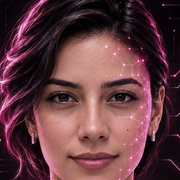
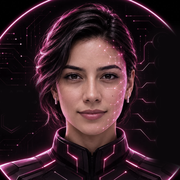
Clara 2.0: encabezado fijo, PQR sin scroll, fondo animado y Clara interactiva
- Menú y subpestañas fijos al desplazarse.
- PQR y EA caben en una pantalla: casillas que se ajustan a la altura
  de la ventana y encabezado más compacto.
- Fondo con cuadrícula tenue y líneas tipo circuito con pulsos de luz
  (se desactiva con "reducir movimiento").
- Clara como asistente en la barra de pasos: mensajes según el estado,
  anillo que gira más rápido mientras analiza y mirada que sigue el mouse.
- Avatar y favicon con encuadre más abierto (cabeza y hombros).

diff --git a/resources/css/app.css b/resources/css/app.css
@@ -73,11 +73,12 @@ body.kairo-theme {
 
 /* ============================ Encabezado ============================ */
 
-.c-header { background: var(--c-surface); border-bottom: 1px solid var(--c-border); position: sticky; top: 0; z-index: 40; }
+.c-topwrap { position: sticky; top: 0; z-index: 40; box-shadow: 0 1px 0 var(--c-border), 0 6px 18px -14px rgba(16,24,40,.25); }
+.c-header { background: rgb(var(--c-surface-rgb) / .92); backdrop-filter: blur(10px); border-bottom: 1px solid var(--c-border); }
 .c-header-row { height: 62px; display: flex; align-items: center; gap: 1.5rem; }
 
 .c-brand { display: flex; align-items: center; gap: .65rem; flex-shrink: 0; }
-.c-brand img { width: 34px; height: 34px; border-radius: 50%; object-fit: cover; }
+
 .c-brand-name { font-weight: 700; font-size: .95rem; color: var(--c-text); line-height: 1.1; }
 .c-brand-sub { font-size: .7rem; color: var(--c-text-dim); font-weight: 500; }
 .c-brand-dot { display: inline-block; width: 6px; height: 6px; border-radius: 50%; background: var(--c-brand); margin-left: 5px; vertical-align: middle; transform: translateY(-1px); }
@@ -88,7 +89,7 @@ body.kairo-theme {
 .c-mainnav a:hover { color: var(--c-text); background: var(--c-surface-2); }
 .c-mainnav a.is-active { background: var(--c-surface-3); color: var(--c-text); }
 
-.c-subbar { background: var(--c-surface); border-bottom: 1px solid var(--c-border); }
+.c-subbar { background: rgb(var(--c-surface-rgb) / .92); backdrop-filter: blur(10px); }
 .c-subnav { display: flex; gap: 1.4rem; height: 44px; align-items: stretch; overflow-x: auto; }
 .c-subnav a { display: flex; align-items: center; font-size: .82rem; font-weight: 600; color: var(--c-text-dim); border-bottom: 2px solid transparent; white-space: nowrap; }
 .c-subnav a:hover { color: var(--c-text); }
@@ -215,3 +216,76 @@ select.kairo-textarea option { background: var(--c-surface); color: var(--c-text
 .kairo-dropdown-panel { background: var(--c-surface) !important; border: 1px solid var(--c-border) !important; color: var(--c-text) !important; }
 
 .prose-invert { --tw-prose-invert-body: var(--c-text-soft); --tw-prose-invert-headings: var(--c-text); --tw-prose-invert-links: var(--c-accent-soft); --tw-prose-invert-bold: var(--c-text); }
+
+
+/* ===================== Fondo de líneas animado ===================== */
+
+.kairo-shell { position: relative; z-index: 1; }
+
+.c-bg { position: fixed; inset: 0; z-index: 0; pointer-events: none; overflow: hidden; }
+.c-bg::before {
+    content: ""; position: absolute; inset: -48px;
+    background-image:
+        linear-gradient(rgb(var(--c-accent-rgb) / .045) 1px, transparent 1px),
+        linear-gradient(90deg, rgb(var(--c-accent-rgb) / .045) 1px, transparent 1px);
+    background-size: 48px 48px;
+    -webkit-mask-image: radial-gradient(ellipse 80% 70% at 70% 0%, #000 30%, transparent 75%);
+            mask-image: radial-gradient(ellipse 80% 70% at 70% 0%, #000 30%, transparent 75%);
+    animation: c-grid 40s linear infinite;
+}
+.c-bg svg { position: absolute; inset: 0; width: 100%; height: 100%; }
+.c-bg .ln { fill: none; stroke-width: 1.2; stroke-linecap: round; }
+.c-bg .ln-a { stroke: rgb(var(--c-accent-rgb) / .10); }
+.c-bg .ln-b { stroke: rgb(201 91 127 / .16); }
+.c-bg .pulse.ln-a { stroke: rgb(var(--c-accent-rgb) / .32); }
+.c-bg .pulse.ln-b { stroke: rgb(201 91 127 / .45); }
+.c-bg .pulse { stroke-dasharray: 90 1400; animation: c-flow 14s linear infinite; }
+.c-bg .pulse.d2 { animation-duration: 19s; animation-delay: -6s; }
+.c-bg .pulse.d3 { animation-duration: 23s; animation-delay: -11s; }
+.c-bg .drift { animation: c-drift 26s ease-in-out infinite alternate; transform-origin: center; }
+
+@keyframes c-grid { to { transform: translate(48px, 48px); } }
+@keyframes c-flow { from { stroke-dashoffset: 1490; } to { stroke-dashoffset: 0; } }
+@keyframes c-drift { from { transform: translateY(0); } to { transform: translateY(-18px); } }
+
+/* ===================== Clara animada ===================== */
+
+.c-clara { position: relative; display: inline-block; border-radius: 50%; flex-shrink: 0; transition: transform .25s ease; }
+.c-clara img { display: block; width: 100%; height: 100%; border-radius: 50%; object-fit: cover; position: relative; z-index: 1; }
+.c-clara::before {
+    content: ""; position: absolute; inset: -3px; border-radius: 50%; z-index: 0;
+    background: conic-gradient(from 0deg, var(--c-brand), rgb(var(--c-accent-rgb) / .9), transparent 55%, var(--c-brand));
+    animation: c-spin 6s linear infinite; opacity: .75;
+}
+.c-clara::after { content: ""; position: absolute; inset: -1px; border-radius: 50%; background: var(--c-surface); z-index: 0; }
+.c-clara-sm { width: 36px; height: 36px; animation: c-float 5s ease-in-out infinite; }
+.c-brand:hover .c-clara-sm { transform: scale(1.08) rotate(-4deg); }
+.c-clara-md { width: 46px; height: 46px; }
+.c-clara.is-thinking::before { animation-duration: 1.1s; opacity: 1; inset: -4px; }
+.c-clara.is-thinking { animation: c-breathe 1.6s ease-in-out infinite; }
+.c-clara.is-done::before { background: conic-gradient(var(--c-green), #8fd3b0, var(--c-green)); }
+
+@keyframes c-spin { to { transform: rotate(360deg); } }
+@keyframes c-float { 0%,100% { transform: translateY(0); } 50% { transform: translateY(-2px); } }
+@keyframes c-breathe { 0%,100% { transform: scale(1); } 50% { transform: scale(1.06); } }
+
+/* Asistente en la barra de pasos */
+.c-assist { margin-left: auto; display: flex; align-items: center; gap: .7rem; max-width: 420px; }
+.c-bubble { position: relative; background: var(--c-surface-3); color: var(--c-text-soft); font-size: .8rem; font-weight: 600; padding: .5rem .8rem; border-radius: 12px 12px 4px 12px; line-height: 1.35; }
+.c-bubble span { display: inline-block; animation: c-pop .35s ease; }
+@keyframes c-pop { from { opacity: 0; transform: translateY(4px); } to { opacity: 1; transform: none; } }
+.c-dots i { display: inline-block; width: 4px; height: 4px; border-radius: 50%; background: currentColor; margin-left: 2px; animation: c-dot 1s infinite; }
+.c-dots i:nth-child(2) { animation-delay: .15s; } .c-dots i:nth-child(3) { animation-delay: .3s; }
+@keyframes c-dot { 0%,80%,100% { opacity: .2; } 40% { opacity: 1; } }
+@media (max-width: 767.98px) { .c-assist { margin-left: 0; width: 100%; } }
+
+/* PQR / EA: todo visible sin desplazarse */
+.c-fit-ta { height: clamp(140px, calc(100vh - 495px), 420px) !important; resize: none; }
+.c-fieldhead { min-height: 32px; display: flex; align-items: center; justify-content: space-between; margin-bottom: .5rem; }
+.c-steps { padding-block: .75rem; }
+.c-split > * { padding-block: 1rem; }
+.c-cardfoot { padding-block: .7rem; }
+
+@media (prefers-reduced-motion: reduce) {
+    .c-bg::before, .c-bg .pulse, .c-bg .drift, .c-clara, .c-clara::before, .c-clara-sm { animation: none !important; }
+}

diff --git a/resources/views/livewire/ea/analyzer.blade.php b/resources/views/livewire/ea/analyzer.blade.php
@@ -8,13 +8,13 @@
     $paso = $secciones ? 3 : 1;
 @endphp
 
-<div>
+<div x-data="{ escrito: false }">
     {{-- Encabezado --}}
-    <div class="flex flex-wrap items-end justify-between gap-4 mb-6">
+    <div class="flex flex-wrap items-end justify-between gap-4 mb-4">
         <div>
             <div class="c-eyebrow">Seguridad del paciente</div>
-            <h1 class="c-title mt-1">Análisis de eventos adversos</h1>
-            <p class="text-sm mt-1.5 max-w-xl" style="color:var(--c-text-dim)">Casos clínicos con enfoque en seguridad del paciente, eventos adversos e incidentes. Clara genera un análisis institucional listo para informe interno.</p>
+            <h1 class="c-title mt-0.5">Análisis de eventos adversos</h1>
+            <p class="text-sm mt-1 max-w-2xl" style="color:var(--c-text-dim)">Casos clínicos con enfoque en seguridad del paciente, eventos adversos e incidentes. Clara genera un análisis institucional listo para informe interno.</p>
         </div>
         @if ($esMaster)
             <div class="c-kpis">
@@ -33,14 +33,32 @@
             <span class="c-step {{ $paso > 2 ? 'is-done' : '' }}" wire:loading.class="is-active" wire:target="analizar"><i>{{ $paso > 2 ? '✓' : '2' }}</i>Análisis de Clara</span>
             <span class="c-step-line"></span>
             <span class="c-step {{ $paso === 3 ? 'is-active' : '' }}"><i>3</i>Revisión e informe</span>
+            <div class="c-assist">
+                <div class="c-bubble">
+                    <span wire:loading.remove wire:target="analizar">
+                        @if ($secciones)
+                            Listo. Revisa la respuesta y las alertas antes de usarla.
+                        @else
+                            <span x-show="!escrito">Pega el caso y la historia clínica; yo me encargo del resto.</span>
+                            <span x-show="escrito" x-cloak>Perfecto. Cuando estés listo, presiona <b>Analizar con Clara</b>.</span>
+                        @endif
+                    </span>
+                    <span wire:loading wire:target="analizar">Estoy revisando el caso<span class="c-dots"><i></i><i></i><i></i></span></span>
+                </div>
+                <span class="c-clara c-clara-md {{ $secciones ? 'is-done' : '' }}" wire:loading.class="is-thinking" wire:target="analizar"
+                      x-data="{ rx: 0, ry: 0 }"
+                      @mousemove.window="const r = $el.getBoundingClientRect(); ry = Math.max(-1, Math.min(1, (event.clientX - r.left - r.width / 2) / 600)) * 18; rx = -Math.max(-1, Math.min(1, (event.clientY - r.top - r.height / 2) / 400)) * 14">
+                    <img src="{{ asset('clara.webp') }}" alt="Clara" :style="`transform: perspective(240px) rotateX(${rx}deg) rotateY(${ry}deg); transition: transform .2s ease-out`">
+                </span>
+            </div>
         </div>
 
         <div class="c-split">
             <div>
-                <label class="kairo-label block mb-2">Descripción del caso</label>
-                <textarea wire:model="caso" rows="10"
+                <div class="c-fieldhead"><label class="kairo-label">Descripción del caso</label></div>
+                <textarea wire:model="caso" x-on:input="escrito = $event.target.value.trim().length > 0"
                     placeholder="Describa el caso: motivo de consulta, atención recibida, reingreso, hallazgos relevantes..."
-                    class="kairo-textarea w-full text-sm p-3"></textarea>
+                    class="kairo-textarea c-fit-ta w-full text-sm p-3"></textarea>
             </div>
             @include('livewire.partials.historia-field')
         </div>

diff --git a/resources/views/livewire/pqr/analyzer.blade.php b/resources/views/livewire/pqr/analyzer.blade.php
@@ -13,13 +13,13 @@
     $requiereJuridica = str_contains(strtoupper($alertas), 'REVISION JURIDICA');
 @endphp
 
-<div>
+<div x-data="{ escrito: false }">
     {{-- Encabezado --}}
-    <div class="flex flex-wrap items-end justify-between gap-4 mb-6">
+    <div class="flex flex-wrap items-end justify-between gap-4 mb-4">
         <div>
             <div class="c-eyebrow">Calidad · PQR</div>
-            <h1 class="c-title mt-1">Análisis de PQR</h1>
-            <p class="text-sm mt-1.5 max-w-xl" style="color:var(--c-text-dim)">Quejas, PQR y derechos de petición del servicio de urgencias. Clara prepara una respuesta institucional formal lista para revisión.</p>
+            <h1 class="c-title mt-0.5">Análisis de PQR</h1>
+            <p class="text-sm mt-1 max-w-2xl" style="color:var(--c-text-dim)">Quejas, PQR y derechos de petición del servicio de urgencias. Clara prepara una respuesta institucional formal lista para revisión.</p>
         </div>
         @if ($esMaster)
             <div class="c-kpis">
@@ -38,14 +38,32 @@
             <span class="c-step {{ $paso > 2 ? 'is-done' : '' }}" wire:loading.class="is-active" wire:target="analizar"><i>{{ $paso > 2 ? '✓' : '2' }}</i>Análisis de Clara</span>
             <span class="c-step-line"></span>
             <span class="c-step {{ $paso === 3 ? 'is-active' : '' }}"><i>3</i>Revisión y respuesta</span>
+            <div class="c-assist">
+                <div class="c-bubble">
+                    <span wire:loading.remove wire:target="analizar">
+                        @if ($secciones)
+                            Listo. Revisa la respuesta y las alertas antes de usarla.
+                        @else
+                            <span x-show="!escrito">Pega la queja y la historia clínica; yo me encargo del resto.</span>
+                            <span x-show="escrito" x-cloak>Perfecto. Cuando estés listo, presiona <b>Analizar con Clara</b>.</span>
+                        @endif
+                    </span>
+                    <span wire:loading wire:target="analizar">Estoy revisando el caso<span class="c-dots"><i></i><i></i><i></i></span></span>
+                </div>
+                <span class="c-clara c-clara-md {{ $secciones ? 'is-done' : '' }}" wire:loading.class="is-thinking" wire:target="analizar"
+                      x-data="{ rx: 0, ry: 0 }"
+                      @mousemove.window="const r = $el.getBoundingClientRect(); ry = Math.max(-1, Math.min(1, (event.clientX - r.left - r.width / 2) / 600)) * 18; rx = -Math.max(-1, Math.min(1, (event.clientY - r.top - r.height / 2) / 400)) * 14">
+                    <img src="{{ asset('clara.webp') }}" alt="Clara" :style="`transform: perspective(240px) rotateX(${rx}deg) rotateY(${ry}deg); transition: transform .2s ease-out`">
+                </span>
+            </div>
         </div>
 
         <div class="c-split">
             <div>
-                <label class="kairo-label block mb-2">Queja o solicitud del usuario</label>
-                <textarea wire:model="queja" rows="10"
+                <div class="c-fieldhead"><label class="kairo-label">Queja o solicitud del usuario</label></div>
+                <textarea wire:model="queja" x-on:input="escrito = $event.target.value.trim().length > 0"
                     placeholder="Pegue aquí el texto de la queja, PQR o solicitud..."
-                    class="kairo-textarea w-full text-sm p-3"></textarea>
+                    class="kairo-textarea c-fit-ta w-full text-sm p-3"></textarea>
             </div>
             @include('livewire.partials.historia-field')
         </div>

diff --git a/resources/views/layouts/guest.blade.php b/resources/views/layouts/guest.blade.php
@@ -7,9 +7,9 @@
         <meta name="theme-color" content="#ffffff">
 
         <title>Clara · Kairo</title>
-        <link rel="icon" type="image/png" sizes="32x32" href="{{ asset('favicon-32.png') }}?v=3">
-        <link rel="shortcut icon" href="{{ asset('favicon.ico') }}?v=3">
-        <link rel="apple-touch-icon" href="{{ asset('apple-touch-icon.png') }}?v=3">
+        <link rel="icon" type="image/png" sizes="32x32" href="{{ asset('favicon-32.png') }}?v=4">
+        <link rel="shortcut icon" href="{{ asset('favicon.ico') }}?v=4">
+        <link rel="apple-touch-icon" href="{{ asset('apple-touch-icon.png') }}?v=4">
 
         <!-- Fonts -->
         <link rel="preconnect" href="https://fonts.bunny.net">
@@ -19,10 +19,11 @@
         @vite(['resources/css/app.css', 'resources/js/app.js'])
     </head>
     <body class="font-sans antialiased kairo-theme">
+        <x-clara-bg />
         <div class="kairo-shell min-h-screen flex flex-col">
             <div class="flex flex-col justify-center items-center px-4 py-10 flex-1">
                 <a href="/" wire:navigate class="flex flex-col items-center text-center">
-                    <img src="{{ asset('clara.webp') }}" alt="Clara" class="w-16 h-16 rounded-full object-cover">
+                    <span class="c-clara" style="width:72px;height:72px"><img src="{{ asset('clara.webp') }}" alt="Clara"></span>
                     <div class="c-brand-name mt-3 text-lg">Clara<span class="c-brand-dot"></span></div>
                     <div class="c-brand-sub mt-0.5">Calidad · Kairo</div>
                 </a>

diff --git a/resources/views/livewire/partials/historia-field.blade.php b/resources/views/livewire/partials/historia-field.blade.php
@@ -46,7 +46,7 @@
         }
     }">
 
-    <div class="flex items-center justify-between mb-2">
+    <div class="c-fieldhead">
         <label class="kairo-label">Historia clínica o registros</label>
         <label x-show="!archivoNombre"
             class="flex items-center gap-1.5 cursor-pointer text-xs px-2.5 py-1 rounded-md transition-colors"
@@ -91,15 +91,15 @@
     </div>
 
     {{-- Textarea sin archivo — intercepta paste largo --}}
-    <textarea x-show="!archivoNombre" wire:model="historia" rows="10"
+    <textarea x-show="!archivoNombre" wire:model="historia"
         placeholder="Pegue aquí historia clínica, evoluciones, notas, órdenes, epicrisis, triage..."
-        class="kairo-textarea w-full text-sm p-3"
+        class="kairo-textarea c-fit-ta w-full text-sm p-3"
         @paste="manejarPegado($event)"></textarea>
 
     {{-- Vista previa con archivo --}}
     <div x-show="archivoNombre && !cargando" x-cloak
-        class="kairo-textarea w-full text-xs p-3 overflow-y-auto"
-        style="height:216px;white-space:pre-wrap;word-break:break-word;color:var(--c-text-dim)"
+        class="kairo-textarea c-fit-ta w-full text-xs p-3 overflow-y-auto"
+        style="white-space:pre-wrap;word-break:break-word;color:var(--c-text-dim)"
         x-text="$wire.historia ? $wire.historia.substring(0,1500) + ($wire.historia.length > 1500 ? '\n\n[...]' : '') : ''">
     </div>
 </div>

diff --git a/resources/views/components/clara-bg.blade.php b/resources/views/components/clara-bg.blade.php
@@ -1,0 +1,24 @@
+{{-- Fondo decorativo: cuadrícula tenue + líneas tipo circuito con pulsos de luz --}}
+<div class="c-bg" aria-hidden="true">
+    <svg viewBox="0 0 1440 900" preserveAspectRatio="xMidYMid slice">
+        @php
+            $lineas = [
+                ['M-20 180 H320 L380 120 H760 L820 60 H1460', 'a', ''],
+                ['M1460 300 H1180 L1120 360 H880 L840 320 H600', 'b', 'd2'],
+                ['M-20 640 H220 L300 560 H520 L580 620 H900 L960 560 H1460', 'a', 'd3'],
+                ['M1100 -20 V140 L1160 200 V420 L1220 480 V920', 'a', 'd2'],
+                ['M260 920 V760 L320 700 H640 L700 760 H1460', 'b', ''],
+                ['M-20 420 C240 380 420 470 640 420 S1040 360 1460 430', 'a', 'd3'],
+            ];
+        @endphp
+        <g class="drift">
+            @foreach ($lineas as [$d, $tono, $retraso])
+                <path class="ln ln-{{ $tono }}" d="{{ $d }}"/>
+                <path class="ln ln-{{ $tono }} pulse {{ $retraso }}" d="{{ $d }}" style="stroke-width:1.8"/>
+            @endforeach
+            @foreach ([[380,120],[820,60],[1120,360],[580,620],[1160,200],[320,700],[960,560]] as [$x, $y])
+                <circle cx="{{ $x }}" cy="{{ $y }}" r="3" fill="rgb(31 42 68 / .14)"/>
+            @endforeach
+        </g>
+    </svg>
+</div>

diff --git a/resources/views/livewire/layout/navigation.blade.php b/resources/views/livewire/layout/navigation.blade.php
@@ -66,15 +66,17 @@ new class extends Component
         'configuracion.prompts' => ['Administración', 'Prompts del sistema'],
         'profile' => ['Cuenta', 'Perfil'],
         'acerca-de' => ['Clara', 'Acerca de'],
+        'configuracion.sepsis' => ['Guías de práctica clínica', 'Sepsis · conexión con Google Drive'],
     ];
     $encabezado = $titulos[$ruta] ?? null;
 @endphp
 
-<div x-data="{ open: false }" @keydown.escape.window="open = false">
+<div x-data="{ open: false }" @keydown.escape.window="open = false" style="display: contents">
+  <div class="c-topwrap">
     <header class="c-header">
         <div class="c-container c-header-row">
             <a href="{{ route('dashboard') }}" wire:navigate class="c-brand">
-                <img src="{{ asset('clara.webp') }}" alt="Clara">
+                <span class="c-clara c-clara-sm"><img src="{{ asset('clara.webp') }}" alt="Clara"></span>
                 <span>
                     <span class="c-brand-name block">Clara<span class="c-brand-dot"></span></span>
                     <span class="c-brand-sub block">Calidad · Kairo</span>
@@ -144,6 +146,7 @@ new class extends Component
             </nav>
         </div>
     @endif
+  </div>
 
     @if ($encabezado)
         <div class="c-container c-pagehead">

diff --git a/resources/views/layouts/app.blade.php b/resources/views/layouts/app.blade.php
@@ -7,9 +7,9 @@
         <meta name="theme-color" content="#ffffff">
 
         <title>Clara · Kairo</title>
-        <link rel="icon" type="image/png" sizes="32x32" href="{{ asset('favicon-32.png') }}?v=3">
-        <link rel="shortcut icon" href="{{ asset('favicon.ico') }}?v=3">
-        <link rel="apple-touch-icon" href="{{ asset('apple-touch-icon.png') }}?v=3">
+        <link rel="icon" type="image/png" sizes="32x32" href="{{ asset('favicon-32.png') }}?v=4">
+        <link rel="shortcut icon" href="{{ asset('favicon.ico') }}?v=4">
+        <link rel="apple-touch-icon" href="{{ asset('apple-touch-icon.png') }}?v=4">
 
         <!-- Fonts -->
         <link rel="preconnect" href="https://fonts.bunny.net">
@@ -19,6 +19,7 @@
         @vite(['resources/css/app.css', 'resources/js/app.js'])
     </head>
     <body class="font-sans antialiased kairo-theme">
+        <x-clara-bg />
         <div class="kairo-shell">
             <livewire:layout.navigation />
 

diff --git a/resources/views/errors/404.blade.php b/resources/views/errors/404.blade.php
@@ -2,7 +2,7 @@
 <html lang="es">
 <head>
     <meta charset="utf-8">
-    <link rel="icon" type="image/png" href="/favicon-32.png?v=3">
+    <link rel="icon" type="image/png" href="/favicon-32.png?v=4">
     <title>Pagina no encontrada — Clara · Kairo</title>
     <meta name="viewport" content="width=device-width, initial-scale=1">
     <style>

diff --git a/resources/views/errors/500.blade.php b/resources/views/errors/500.blade.php
@@ -2,7 +2,7 @@
 <html lang="es">
 <head>
     <meta charset="utf-8">
-    <link rel="icon" type="image/png" href="/favicon-32.png?v=3">
+    <link rel="icon" type="image/png" href="/favicon-32.png?v=4">
     <title>Error del servidor — Clara · Kairo</title>
     <meta name="viewport" content="width=device-width, initial-scale=1">
     <style>

diff --git a/resources/views/errors/403.blade.php b/resources/views/errors/403.blade.php
@@ -2,7 +2,7 @@
 <html lang="es">
 <head>
     <meta charset="utf-8">
-    <link rel="icon" type="image/png" href="/favicon-32.png?v=3">
+    <link rel="icon" type="image/png" href="/favicon-32.png?v=4">
     <title>Acceso denegado — Clara · Kairo</title>
     <meta name="viewport" content="width=device-width, initial-scale=1">
     <style>

diff --git a/resources/views/errors/419.blade.php b/resources/views/errors/419.blade.php
@@ -2,7 +2,7 @@
 <html lang="es">
 <head>
     <meta charset="utf-8">
-    <link rel="icon" type="image/png" href="/favicon-32.png?v=3">
+    <link rel="icon" type="image/png" href="/favicon-32.png?v=4">
     <title>Sesion expirada — Clara · Kairo</title>
     <meta name="viewport" content="width=device-width, initial-scale=1">
     <style>
